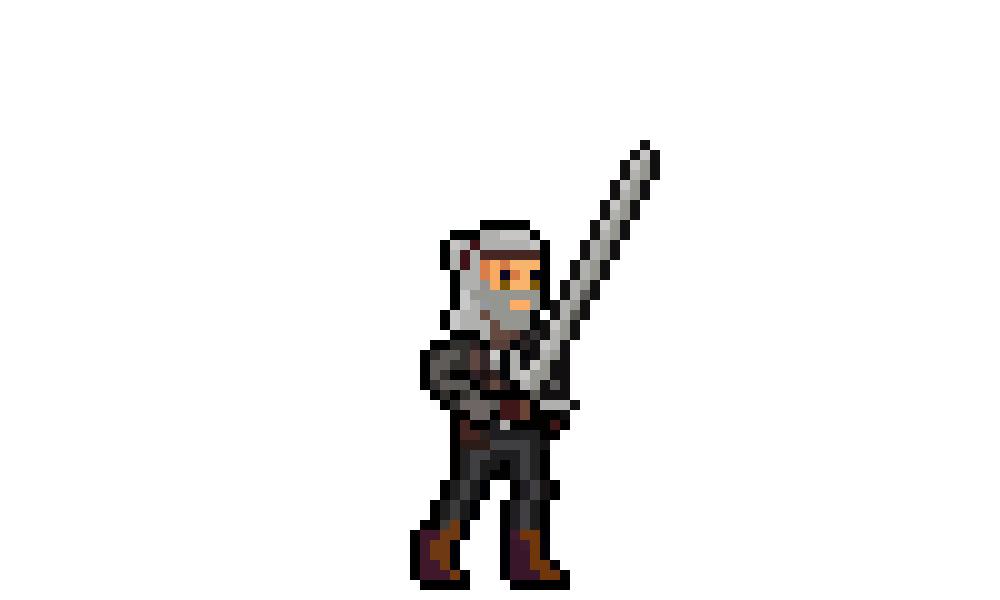
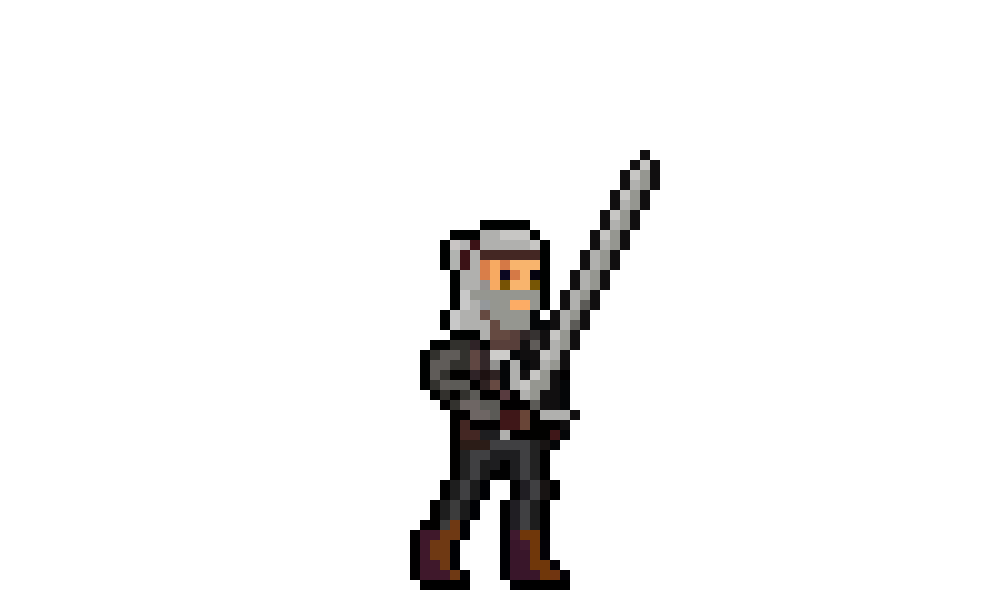
ну ЭТО ПРОСТО ОФИГЕННО

Changed region(s): [[0.465, 0.24, 0.682, 0.75]]

diff --git a/main2WITCHERGAME.py b/main2WITCHERGAME.py
@@ -17,7 +17,7 @@ tile_group = pg.sprite.Group()  # группа спрайтов объектов
 running = True
 FPS = 60
 speed = 10
-x_player, y_player = 100, 570
+x_player, y_player = 100, 500
 clock = pg.time.Clock()
 # -------------------------------
 floor_width, floor_height = 80, 50  # размеры пола
@@ -52,14 +52,9 @@ tile_images = {
 witcher_images = {
     "walk_right": [load_image("source/player/right/2.png"), load_image("source/player/right/3.png"),
                    load_image("source/player/right/2.png"), load_image("source/player/right/1.png")],
-    "walk_left": [load_image("source/player/left/2.png"), load_image("source/player/left/3.png"),
-                  load_image("source/player/left/2.png"), load_image("source/player/left/1.png")],
     "stand_right": [load_image("source/player/stand_right/1.png"), load_image("source/player/stand_right/2.png"),
                     load_image("source/player/stand_right/3.png"), load_image("source/player/stand_right/4.png"),
                     load_image("source/player/stand_right/5.png")],
-    "stand_left": [load_image("source/player/stand_left/1.png"), load_image("source/player/stand_left/2.png"),
-                   load_image("source/player/stand_left/3.png"), load_image("source/player/stand_left/4.png"),
-                   load_image("source/player/stand_left/5.png")],
     "right_hit": [load_image("source/player/right_hit/1.png"), load_image("source/player/right_hit/2.png"),
                   load_image("source/player/right_hit/3.png"), load_image("source/player/right_hit/4.png"),
                   load_image("source/player/right_hit/5.png")],
@@ -84,6 +79,7 @@ class Witcher(pg.sprite.Sprite):
         self.count_stand = 0  # cчетчик анимации стойки
         self.count_walk_left = 0
         self.count_hit = 0
+        self.count_hit_2 = 0
         self.last_dir = True
         self.stay = True
         # ------------------
@@ -155,8 +151,11 @@ def attack(hero):
     #                                                               [400, 300]), True, False)
 
     keys = pg.mouse.get_pressed()
+    keys_1 = pg.key.get_pressed()
     if hero.count_hit >= 30:
         hero.count_hit = 0
+    if hero.count_hit_2 >= 30:
+        hero.count_hit_2 = 0
     if keys[0]:
         if hero.stay:
             if hero.last_dir:
@@ -165,9 +164,20 @@ def attack(hero):
                 hero.count_hit += 1
             else:
                 witcher_sprites.draw(screen)
-                hero.image = pg.transform.flip(pg.transform.scale(witcher_images["left_hit"][hero.count_hit // 6],
+                hero.image = pg.transform.flip(pg.transform.scale(witcher_images["right_hit"][hero.count_hit // 6],
                                                                   [500, 300]), True, False)
                 hero.count_hit += 1
+    if keys[0] and keys_1[pg.K_LSHIFT]:
+        if hero.stay:
+            if hero.last_dir:
+                witcher_sprites.draw(screen)
+                hero.image = pg.transform.scale(witcher_images["left_hit"][hero.count_hit_2 // 6], [500, 300])
+                hero.count_hit_2 += 1
+            else:
+                witcher_sprites.draw(screen)
+                hero.image = pg.transform.flip(pg.transform.scale(witcher_images["left_hit"][hero.count_hit_2 // 6],
+                                                                  [500, 300]), True, False)
+                hero.count_hit_2 += 1
 
 
 
@@ -216,8 +226,8 @@ class Map:
             x += a[0]
 
 
-backg = pg.image.load("source/background.png")
-map_ = Map("source/background.png", 2)
+backg = pg.image.load("source/background_2.png")
+map_ = Map("source/background_2.png", 2)
 w = Witcher("stand_left", x_player, y_player)
 while running:
     for event in pg.event.get():
